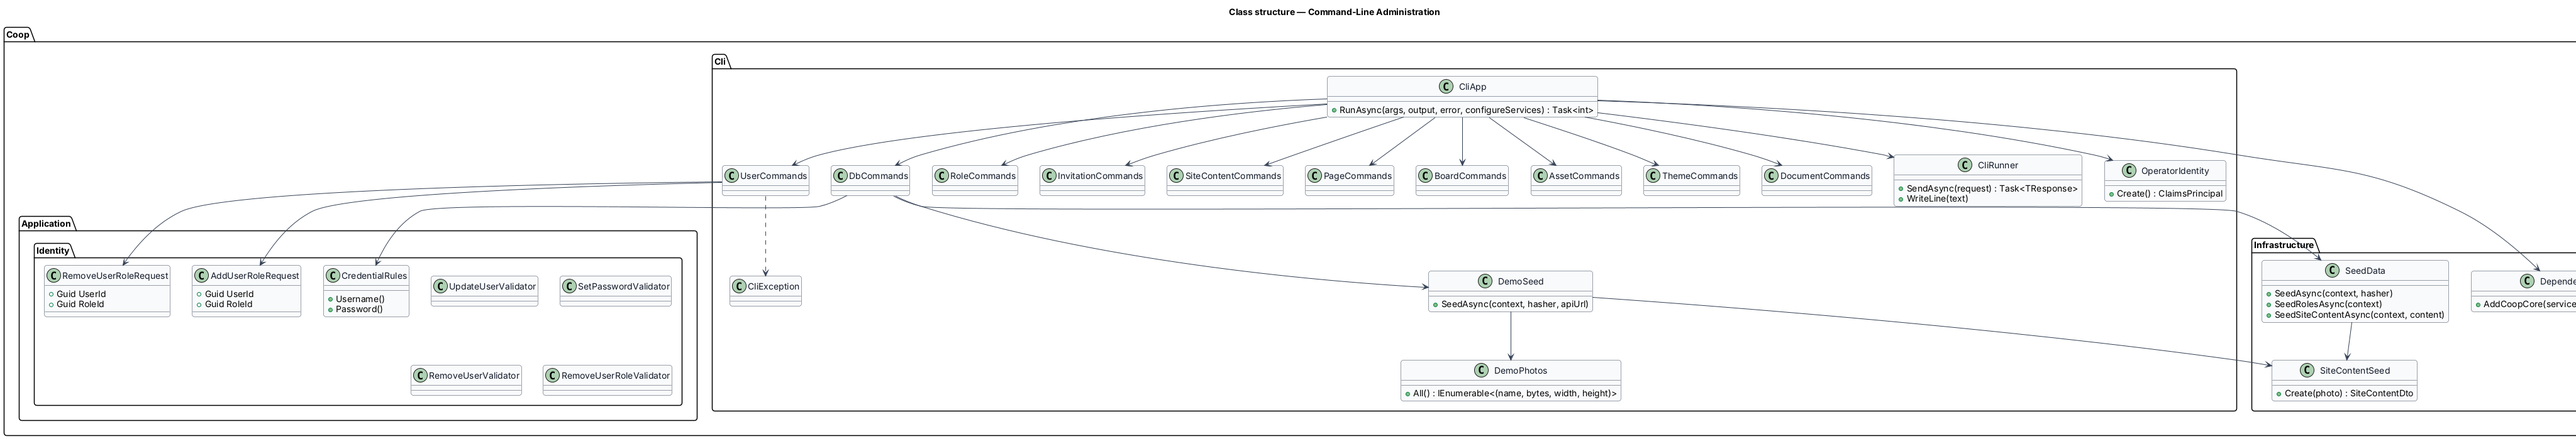
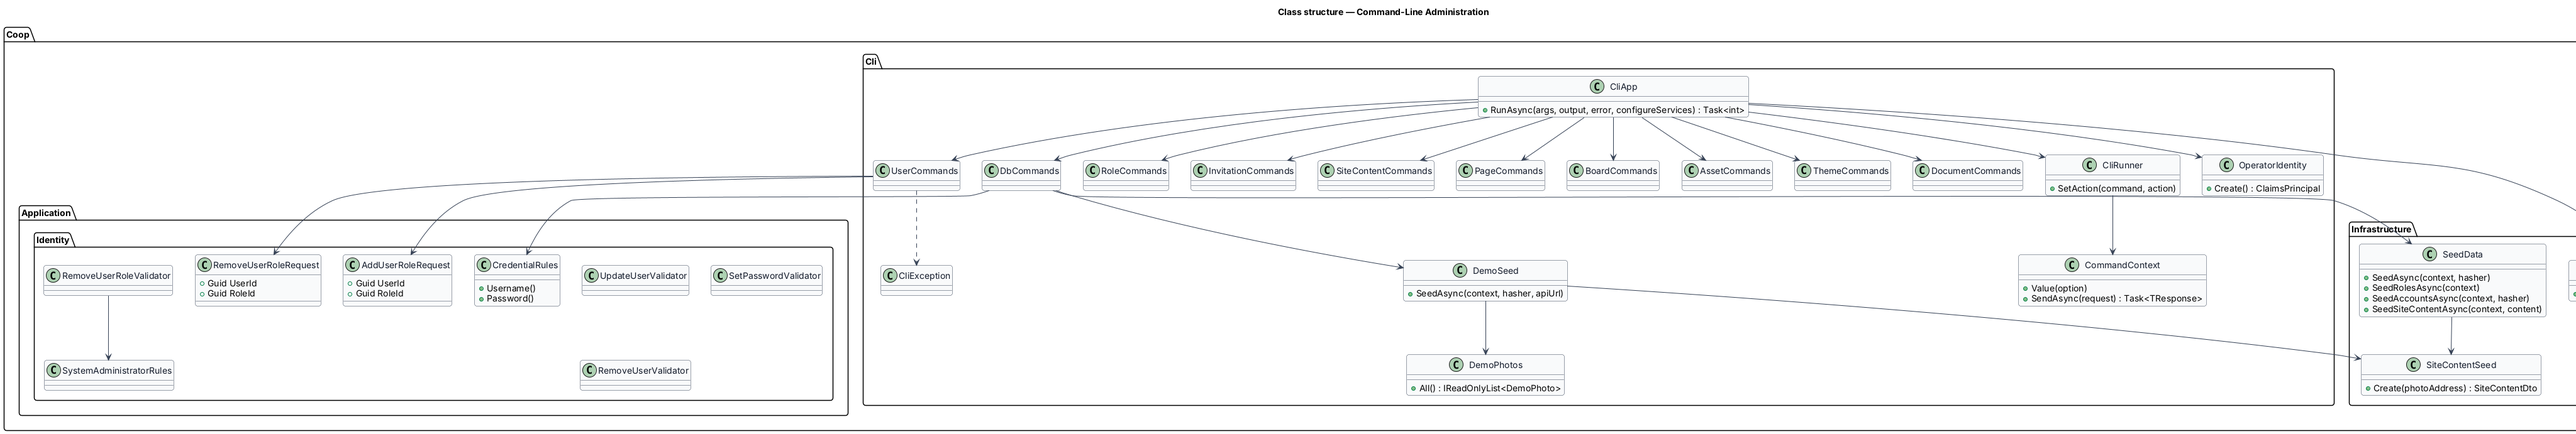
Align AGENTS.md, README.md, backend/README.md and the design with Coop.Cli
Claude-Session: https://claude.ai/code/session_01Pw6eVsR8myYQW2vN8ToVce

diff --git a/backend/README.md b/backend/README.md
@@ -15,15 +15,19 @@ backend/
     Coop.SharedKernel/           # constants and authentication primitives (no dependencies)
     Coop.Domain/                 # entities, enums, aggregates, authorization rules
     Coop.Application/            # MediatR handlers, validators, pipeline behaviors, DTOs, ICoopDbContext
-    Coop.Infrastructure/         # CoopDbContext (EF Core + SQLite), identity services, notifications
+    Coop.Infrastructure/         # CoopDbContext (EF Core + SQLite), identity, notifications, seed, AddCoopCore
     Coop.Api/                    # controllers, Program.cs, DI composition in Dependencies.cs
+    Coop.Cli/                    # command-line tool: database reset and administration (coop)
   tests/
     Coop.Api.Tests/              # acceptance tests through the API over an in-memory database
+    Coop.Cli.Tests/              # runs the tool in process, checks the result through the API
 ```
 
 Layer dependencies point inward and are strict: Api references all other
 layers, Infrastructure references Application, Application references Domain,
-and Domain references only the shared kernel.
+and Domain references only the shared kernel. Cli references every layer
+except Api, and builds the same services through `AddCoopCore`
+(`Coop.Infrastructure/Dependencies.cs`).
 
 Business modules are organized by folder in the Domain and Application layers:
 Identity, Roles and Privileges, Profiles, Maintenance, Documents, Messaging,
@@ -74,7 +78,8 @@ environment variables or a secret store for any shared or deployed environment.
 
 ## Seed data
 
-On startup the API ensures the database exists and seeds it when it is empty.
+On startup the API ensures the database exists and seeds it when it is empty
+(`Coop.Infrastructure/Persistence/Seeding/SeedData.cs`).
 Seed data is clearly fictional: the five roles (Member, Staff, BoardMember,
 SystemAdministrator, Support) with their privileges, three sample board members,
 and two development accounts that the Playwright suites sign in with. Seeding
@@ -88,15 +93,79 @@ grants it to the existing roles at each role's level.
 
 These credentials are for local development only.
 
+## Command-line tool
+
+`Coop.Cli` (`coop`) is for a trusted operator on the machine that holds the
+database. It sends the same MediatR requests as the API, through the same
+validation and authorization behaviors, as an operator identity with full
+access (ADR 0012 to ADR 0015); it never prints passwords, hashes or salts.
+Run it from the folder you run the API from, so both use the same
+`Data Source=coop.db`, or pass `--connection "<connection string>"`.
+`ConnectionStrings__DefaultConnection` also works, as for the API.
+
+```powershell
+dotnet run --project backend/src/Coop.Cli -- --help
+dotnet run --project backend/src/Coop.Cli -- user --help
+```
+
+> **Warning:** `db reset` deletes every record in the database before it
+> seeds it again. It refuses to run without `--yes`.
+
+Reset to the demo state: every screen has fictional content, the public
+site's photos are stored as digital assets, and each role has a sign-in.
+`--api-url` sets the API address the photos are served from
+(`http://localhost:5000/api` by default).
+
+```powershell
+dotnet run --project backend/src/Coop.Cli -- db reset --demo --yes
+```
+
+| Username | Password | Role |
+| --- | --- | --- |
+| `admin` | `Admin123!` | SystemAdministrator |
+| `member` | `Member123!` | Member |
+| `staff` | `Staff123!` | Staff |
+| `board` | `Board123!` | BoardMember |
+| `support` | `Support123!` | Support |
+
+Reset for a new instance: the roles and privileges, one system administrator
+you name, and the baseline public site content; nothing else. The username
+and password follow the API's rules (at least 3 and 6 characters) and are
+checked before anything is deleted.
+
+```powershell
+dotnet run --project backend/src/Coop.Cli -- db reset --new-instance --admin-username ruth --admin-password "<a strong password>" --yes
+```
+
+| Group | Commands |
+| --- | --- |
+| `user` | `list`, `create --username --password [--role]...`, `rename --username --new-username`, `set-password --username --password`, `add-role` / `remove-role --username --role`, `remove --username` |
+| `role` | `list`, `create --name`, `remove --name`, `grant` / `revoke --role --aggregate --access <Read\|Write\|Create\|Delete>` |
+| `invitation` | `list`, `create --value --type <Member\|BoardMember\|StaffMember> [--expires yyyy-mm-dd]`, `remove --value` |
+| `site-content` | `export [--file]`, `import --file` (JSON in the shape `GET /api/site-content` returns) |
+| `page` | `list`, `create --title --body-file [--hero-image-url --hero-image-alt]`, `update --slug [...]`, `remove --slug` |
+| `board` | `export [--file]`, `import --file` (a JSON array of `name`, `title`, `photoUrl`) |
+| `asset` | `list`, `upload --file`, `remove --id` |
+| `theme` | `list`, `create --css-file [--default]`, `update --id --css-file [--default]`, `remove --id` |
+| `notice`, `bylaw`, `report` | `list`, `create --name [--body] [--asset-id] [--publish]`, `update --id --name [...]`, `publish --id`, `remove --id`; `notice send --id` |
+
+The last active system administrator cannot be removed or lose that role, and
+the SystemAdministrator role cannot be removed. Creating a role, a privilege
+or an invitation that already exists returns the existing one (ADR 0015).
+The design is `docs/detailed-designs/cli/command-line-administration/`.
+
 ## Current state
 
 The code does not yet match every rule in [AGENTS.md](../AGENTS.md):
 
-- The API creates the database and seeds it on startup instead of applying
-  migrations through an explicit command, and there is no `Coop.Cli` project for
-  `migrate`, `seed`, and `reset`.
-- Only `Coop.Api.Tests` exists under `backend/tests/`; it covers website pages
-  and the Board of Directors list so far. Add coverage for other areas through the API, following its pattern.
+- The API still creates the database and seeds it on startup, and the database
+  has no EF migrations, so there is no `migrate` command; `coop db reset`
+  creates the schema the same way the API does.
+- `backend/tests/` holds `Coop.Api.Tests`, which covers website pages, the
+  Board of Directors list, site content, digital assets, maintenance, notices
+  and profiles, and
+  `Coop.Cli.Tests`, which covers the command-line tool. Add coverage for other
+  areas through the API, following their pattern.
 
 Close the remaining gaps in a slice of their own, with an ADR for each decision.
 
@@ -110,8 +179,12 @@ dotnet test backend/Coop.sln
 `backend/tests/Coop.Api.Tests` hosts the real API with
 `WebApplicationFactory<Program>` over the EF Core in-memory provider, one
 database per test class, seeded by the API's own startup seed; tests sign in
-with the seeded accounts and assert HTTP responses only (ADR 0003). Backend
-acceptance tests must not use a real database.
+with the seeded accounts and assert HTTP responses only (ADR 0003).
+`backend/tests/Coop.Cli.Tests` runs the tool in process with
+`CliApp.RunAsync` against the same in-memory database as an API host, then
+checks the result through HTTP, for example by signing in with a password the
+tool just set (ADR 0012). Backend acceptance tests must not use a real
+database.
 
 End-to-end behavior is covered by the Playwright suite in `e2e/`, which mocks
 the API in-process and does not start or require this backend.

diff --git a/docs/detailed-designs/cli/command-line-administration/README.md b/docs/detailed-designs/cli/command-line-administration/README.md
@@ -44,15 +44,18 @@ Its one package is `System.CommandLine` (ADR 0013).
 | File | Responsibility |
 |------|----------------|
 | `Program.cs` | Calls `CliApp.RunAsync(args, Console.Out, Console.Error)` and returns its exit code |
-| `CliApp.cs` | Builds the configuration, the services and the command tree; parses and invokes; turns exceptions into messages and exit codes |
-| `CliServices.cs` | `AddCoopCore` plus the operator identity, `IHttpContextAccessor` and the authorization service |
-| `OperatorIdentity.cs` | Builds the operator's `ClaimsPrincipal` |
+| `CliApp.cs` | Builds the command tree with the global `--connection` option, parses and invokes |
+| `CliRunner.cs` | Sets each command's action: builds the services for the chosen connection, runs the action in a scope, and turns failures into messages and exit codes |
+| `CommandContext.cs` | What an action works with: the parsed options, the scoped services, the output and `SendAsync` for MediatR requests |
+| `OperatorIdentity.cs` | Builds the operator's `ClaimsPrincipal` (ADR 0014) |
 | `CliException.cs` | A plain message for something not found or refused, printed without a stack trace |
-| `CliRunner.cs` | Runs a command action in a fresh service scope and writes results |
-| `Commands/*Commands.cs` | One class per group: `DbCommands`, `UserCommands`, `RoleCommands`, `InvitationCommands`, `SiteContentCommands`, `PageCommands`, `BoardCommands`, `AssetCommands`, `ThemeCommands`, `DocumentCommands` |
+| `CliFiles.cs` | Reads the files the operator names and reads and writes JSON in the API's camel-case shape |
+| `Table.cs` | Prints rows as aligned columns |
+| `Commands/*Commands.cs` | One class per group: `DbCommands`, `UserCommands`, `RoleCommands`, `InvitationCommands`, `SiteContentCommands`, `PageCommands`, `BoardCommands`, `AssetCommands`, `ThemeCommands` and `DocumentCommands` (notices, bylaws and reports, each described by a `DocumentKind`) |
+| `Commands/Lookup.cs` | Finds a user or role by name through the list queries |
 | `Seeding/DemoSeed.cs` | The demo accounts, profiles and content |
-| `Seeding/DemoPhotos.cs` | Reads the embedded photographs |
-| `appsettings.json` | `ConnectionStrings:DefaultConnection` = `Data Source=coop.db`, as the API |
+| `Seeding/DemoPhotos.cs`, `Seeding/DemoPhoto.cs` | Read the embedded photographs with their view-box width and height |
+| `appsettings.json` | `ConnectionStrings:DefaultConnection` = `Data Source=coop.db`, as the API, and quiet logging |
 
 The public app's photographs, `frontend/projects/public/public/own/*.svg`,
 are linked into the project as embedded resources
@@ -71,9 +74,10 @@ and `ResourceOperationAuthorizationHandler`. The API's `AddCoopServices`
 calls it and then adds the HTTP context, the JWT bearer scheme, CORS, Swagger
 and controllers, so the API's behaviour is unchanged.
 
-`CliServices` calls `AddCoopCore`, then `AddLogging`, `AddAuthorizationCore`,
-`AddHttpContextAccessor` (no request, so handlers that need one are not
-exposed) and a scoped `ClaimsPrincipal` from `OperatorIdentity.Create()`. No
+`CliRunner` calls `AddCoopCore`, then `AddLogging` (to standard error, so an
+export stays clean JSON), `AddAuthorizationCore`, `AddHttpContextAccessor`
+(there is no request, so handlers that need one are not exposed) and a scoped
+`ClaimsPrincipal` from `OperatorIdentity.Create()`. No
 web host starts. Configuration comes from the tool's `appsettings.json`, then
 environment variables, then `--connection`, which replaces
 `ConnectionStrings:DefaultConnection`.
@@ -146,17 +150,19 @@ The tool needs a few rules the handlers did not have. They live in
 - `Identity/CredentialRules.cs` holds the username rule (at least 3
   characters) and the password rule (at least 6 characters) that
   `CreateUserValidator` already applied; `CreateUserValidator`,
-  `ChangePasswordValidator` and a new `SetPasswordValidator` use them, and the
-  new-instance reset checks the administrator's options against them before
-  deleting anything (`L2-REQ-104` AC3).
+  `UpdateUserValidator`, `ChangePasswordValidator` and a new
+  `SetPasswordValidator` use them, and the new-instance reset checks the
+  administrator's options against them before deleting anything
+  (`L2-REQ-104` AC3).
 - `CreateUserValidator` and a new `UpdateUserValidator` reject a username
   another user holds with `The username "{name}" is already taken.`
   (`L2-REQ-001` AC4, `L2-REQ-105` AC2, AC3).
 - `AddUserRole` and `RemoveUserRole` (`Identity/Commands/`) add or remove one
   role, which `UpdateUserRequest` cannot do because it replaces the whole set
   and ignores an empty one. Adding a role the user holds changes nothing.
-- `RemoveUserValidator` and `RemoveUserRoleValidator` refuse to leave no
-  active user holding SystemAdministrator (`At least one system administrator
+- `Identity/SystemAdministratorRules.cs` backs `RemoveUserValidator` and
+  `RemoveUserRoleValidator`, which refuse to leave no active user holding
+  SystemAdministrator (`At least one system administrator
   must remain.`), and `RemoveRoleValidator` refuses to remove the
   SystemAdministrator role (`L2-REQ-105` AC8, `L2-REQ-106` AC3). Allowing it
   would leave an installation nobody can administer except by resetting it.
@@ -171,10 +177,11 @@ The tool needs a few rules the handlers did not have. They live in
 `SeedData` and `SiteContentSeed` move from `Coop.Api` to
 `Coop.Infrastructure/Persistence/Seeding/`. `SeedData.SeedAsync` keeps its
 steps and order, so the API's startup seed is unchanged; it is split into
-`SeedRolesAsync` (roles and privileges, including the `Page` back-fill),
-`SeedAccountsAsync`, `SeedInvitationsAsync`, `SeedBoardAsync`,
-`SeedJsonContentAsync` and `SeedSiteContentAsync`, which the resets reuse.
-`SiteContentSeed.Create(photo)` takes an optional function that maps each
+`SeedRolesAsync`, `SeedAccountsAsync` (`admin` and `member`),
+`SeedPagePrivilegesAsync` (the `Page` back-fill), `SeedInvitationsAsync`,
+`SeedBoardAsync`, `SeedJsonContentAsync` and
+`SeedSiteContentAsync(context, content)`, which the resets reuse.
+`SiteContentSeed.Create(photoAddress)` takes an optional function that maps each
 photograph's file name (`hero.svg`) to its address; without it the addresses
 stay the public app's own files (`/own/hero.svg`), the baseline of
 `L2-REQ-100` AC1.
@@ -184,7 +191,8 @@ stay the public app's own files (`/own/hero.svg`), the baseline of
 API creates the schema; no migrations are added.
 
 `--new-instance` checks the administrator's username and password against
-`CredentialRules` before deleting, then seeds roles, sends
+`CredentialRules` before deleting, then seeds the roles with
+`SeedRolesAsync`, sends
 `CreateUserRequest` with the SystemAdministrator role, and seeds the
 baseline site content. Nothing else is created.
 

diff --git a/README.md b/README.md
@@ -120,6 +120,44 @@ restart the API to recreate it. Swagger is available at `http://localhost:5000/s
 in the Development environment. See [backend/README.md](backend/README.md) for the seed
 accounts and the backend layout.
 
+### Command-line tool (reset and administer the database)
+
+`backend/src/Coop.Cli` is a command-line tool for the person who looks after
+the machine that holds the database. Run it from the same folder as the API so
+both use `coop.db`, or pass `--connection "<connection string>"`. Every rule
+the admin app meets applies to it too, because it calls the same application
+handlers. `--help` on any group lists its commands.
+
+> **Warning:** `db reset` deletes every record in the database. It refuses to
+> run without `--yes`.
+
+```powershell
+# Demo state: every screen has fictional content, photos are stored as assets
+dotnet run --project .\backend\src\Coop.Cli -- db reset --demo --yes
+
+# New instance: roles, privileges, one administrator you name and the baseline site content
+dotnet run --project .\backend\src\Coop.Cli -- db reset --new-instance --admin-username ruth --admin-password "<a strong password>" --yes
+
+# Day-to-day administration, for example
+dotnet run --project .\backend\src\Coop.Cli -- user set-password --username member --password "<new password>"
+dotnet run --project .\backend\src\Coop.Cli -- site-content export --file site.json
+dotnet run --project .\backend\src\Coop.Cli -- site-content import --file site.json
+```
+
+Demo sign-ins, one per role:
+
+| Username | Password | Role |
+| --- | --- | --- |
+| `admin` | `Admin123!` | SystemAdministrator |
+| `member` | `Member123!` | Member |
+| `staff` | `Staff123!` | Staff |
+| `board` | `Board123!` | BoardMember |
+| `support` | `Support123!` | Support |
+
+The tool also manages roles and privileges, invitations, website pages, the
+board list, digital assets, themes, and notices, bylaws and reports. See
+[backend/README.md](backend/README.md#command-line-tool) for every command.
+
 ### Design reference (static mocks)
 
 Open any page under [docs/mocks/pages](docs/mocks/pages/), for example
@@ -131,11 +169,12 @@ provenance, and known differences from the requirements.
 
 | Area | Path | Notes |
 | --- | --- | --- |
-| Backend API | `backend/src/Coop.Api` | ASP.NET Core controllers, `Program.cs`, DI composition, Swagger, seed data |
-| Backend tests | `backend/tests/Coop.Api.Tests` | Acceptance tests through the API over an in-memory database |
+| Backend API | `backend/src/Coop.Api` | ASP.NET Core controllers, `Program.cs`, DI composition, Swagger |
+| Command-line tool | `backend/src/Coop.Cli` | Resets the database (demo state or new instance) and administers users, roles, invitations and site content through the application handlers |
+| Backend tests | `backend/tests/Coop.Api.Tests`, `backend/tests/Coop.Cli.Tests` | Acceptance tests through the API over an in-memory database; the tool's tests run it in process and check the result through the API |
 | Application layer | `backend/src/Coop.Application` | MediatR handlers, FluentValidation validators, pipeline behaviors, DTO contracts |
 | Domain layer | `backend/src/Coop.Domain` | Entities, enums, aggregates, and authorization rules with no infrastructure dependency |
-| Infrastructure | `backend/src/Coop.Infrastructure` | EF Core with SQLite, `CoopDbContext`, identity services, notifications |
+| Infrastructure | `backend/src/Coop.Infrastructure` | EF Core with SQLite, `CoopDbContext`, identity services, notifications, seed data, shared service registration |
 | Shared kernel | `backend/src/Coop.SharedKernel` | Constants and authentication primitives shared across layers |
 | Public app | `frontend/projects/public` | Angular public and member application ([README](frontend/projects/public/README.md)) |
 | Admin app | `frontend/projects/admin` | Angular administration application ([README](frontend/projects/admin/README.md)) |
@@ -189,8 +228,8 @@ Development conventions:
 
 | Suite | Command | Purpose |
 | --- | --- | --- |
-| Backend build | `dotnet build .\backend\Coop.sln` | Compile the API, application, domain, infrastructure, and shared kernel projects |
-| Backend tests | `dotnet test .\backend\Coop.sln` | Acceptance tests through the API with an in-memory database (`backend/tests/Coop.Api.Tests`) |
+| Backend build | `dotnet build .\backend\Coop.sln` | Compile the API, command-line tool, application, domain, infrastructure, and shared kernel projects |
+| Backend tests | `dotnet test .\backend\Coop.sln` | Acceptance tests through the API with an in-memory database (`backend/tests/Coop.Api.Tests`, `backend/tests/Coop.Cli.Tests`) |
 | Frontend build | `npm run build` from `frontend` | Build the public and admin applications and the shared libraries |
 | Frontend unit tests | `npm test` from `frontend` | Angular Vitest tests |
 | Playwright | `npm test` from `e2e` | End-to-end behavior for both apps against an in-process mock of the API |
@@ -202,8 +241,8 @@ running and runs in Chromium. It never needs the backend: every request to
 `http://localhost:5000/api` is answered by the in-process mock in
 `e2e/fixtures/mock-api/`, which seeds fictional data per test. Backend
 behavior is tested through the API at the integration boundary in
-`backend/tests/Coop.Api.Tests`, over an in-memory database rather than a
-real one.
+`backend/tests/Coop.Api.Tests` and `backend/tests/Coop.Cli.Tests`, over an
+in-memory database rather than a real one.
 
 ## Documentation
 

diff --git a/AGENTS.md b/AGENTS.md
@@ -65,7 +65,8 @@ these locations and move existing files here as areas are touched:
 - `backend/` — .NET solution (`Coop.sln`, `Directory.Build.props`,
   `Directory.Packages.props`, `global.json`)
   - `backend/src/` — `Coop.SharedKernel`, `Coop.Domain`, `Coop.Application`,
-    `Coop.Infrastructure`, `Coop.Api`, and `Coop.Cli` (migrate, seed, reset)
+    `Coop.Infrastructure`, `Coop.Api`, and `Coop.Cli` (database reset and
+    command-line administration)
   - `backend/tests/` — one test project per layer, e.g. `Coop.Api.Tests`
 - `frontend/` — Angular workspace with projects under `frontend/projects/`:
   `public` (member app), `admin`, `api` (service contracts and injection
@@ -88,8 +89,12 @@ these locations and move existing files here as areas are touched:
 All areas have moved to this layout. The `api` library in `frontend/projects/`
 is still a scaffold; the `components` library holds the design system's
 presentation components that the admin uses, and the public app does not use
-it yet. `backend/tests/` holds only `Coop.Api.Tests`, and `Coop.Cli` does not
-exist yet. Update this note and `README.md` when that changes.
+it yet. `backend/tests/` holds `Coop.Api.Tests` and `Coop.Cli.Tests`.
+`Coop.Cli` resets the database (demo state or new instance) and administers
+users, roles, invitations and the public site content through the application
+handlers (ADR 0012); it has no `migrate` command because the database has no EF
+migrations yet, and the API still creates and seeds the database on startup.
+Update this note and `README.md` when that changes.
 
 See `README.md` for setup and development commands.
 
@@ -104,9 +109,14 @@ Layer dependency direction (strict):
 - `Coop.Application` — MediatR handlers, FluentValidation validators, pipeline
   behaviors, DTO contracts, `ICoopDbContext`
 - `Coop.Infrastructure` — `CoopDbContext`, EF configurations and migrations,
-  identity (password hashing, token building), notifications
+  identity (password hashing, token building), notifications, the startup
+  seed, and `AddCoopCore`, the service registration the API and `Coop.Cli`
+  share
 - `Coop.Api` — controllers, `Program.cs`, DI composition in `Dependencies.cs`,
   Swagger, middleware ordering
+- `Coop.Cli` — console tool that sends the same MediatR requests as the API
+  in process, as an operator identity (ADR 0012 to ADR 0014); like a
+  controller, it only translates arguments and prints results
 
 Non-obvious rules:
 
